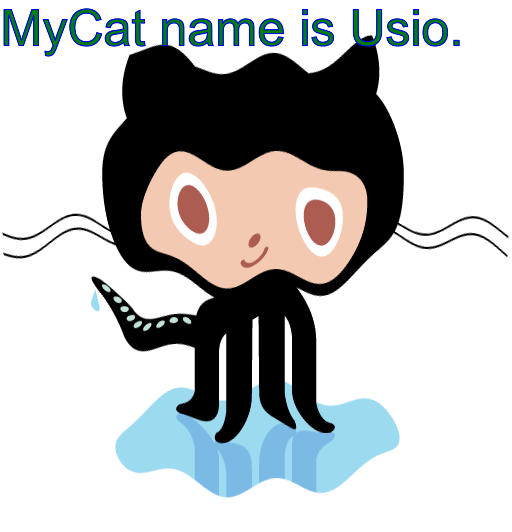
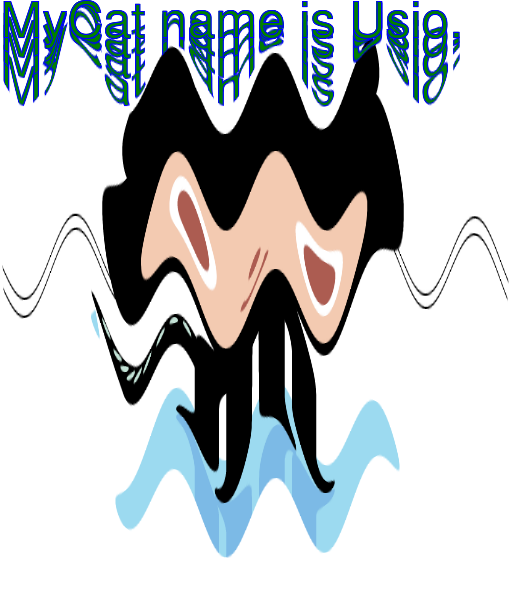
Update.

diff --git a/rmagick.rb b/rmagick.rb
@@ -1,9 +1,10 @@
 # frozen_string_literal: true
 
-require 'RMagick'
-include Magick
+require 'rmagick'
 
+# rmagick
 class Ushio
+  include Magick
   def self.cat
     image = Magick::ImageList.new('CatTera.png')
     image2 = image.wave(amplitude = 10.0, wavelength = 100.0)
